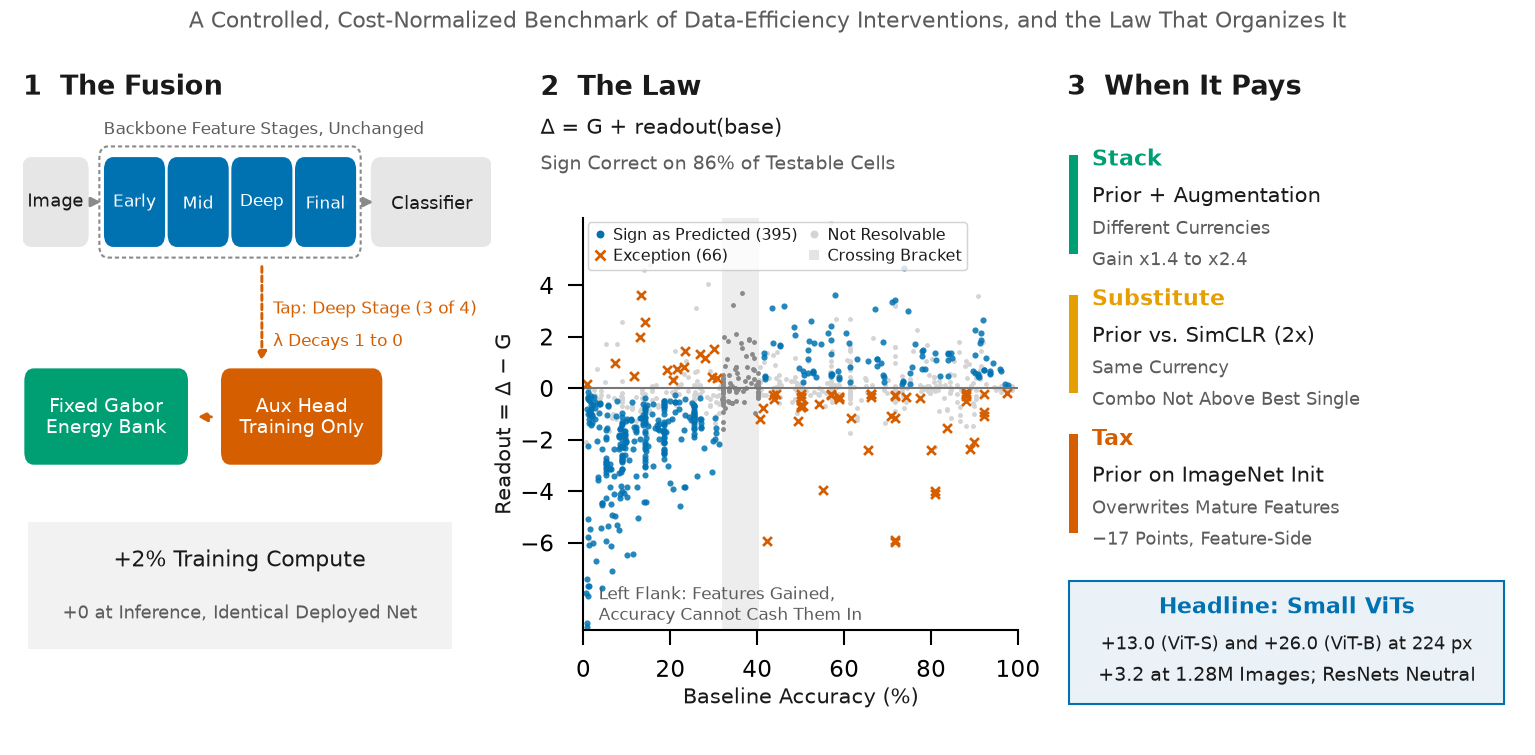
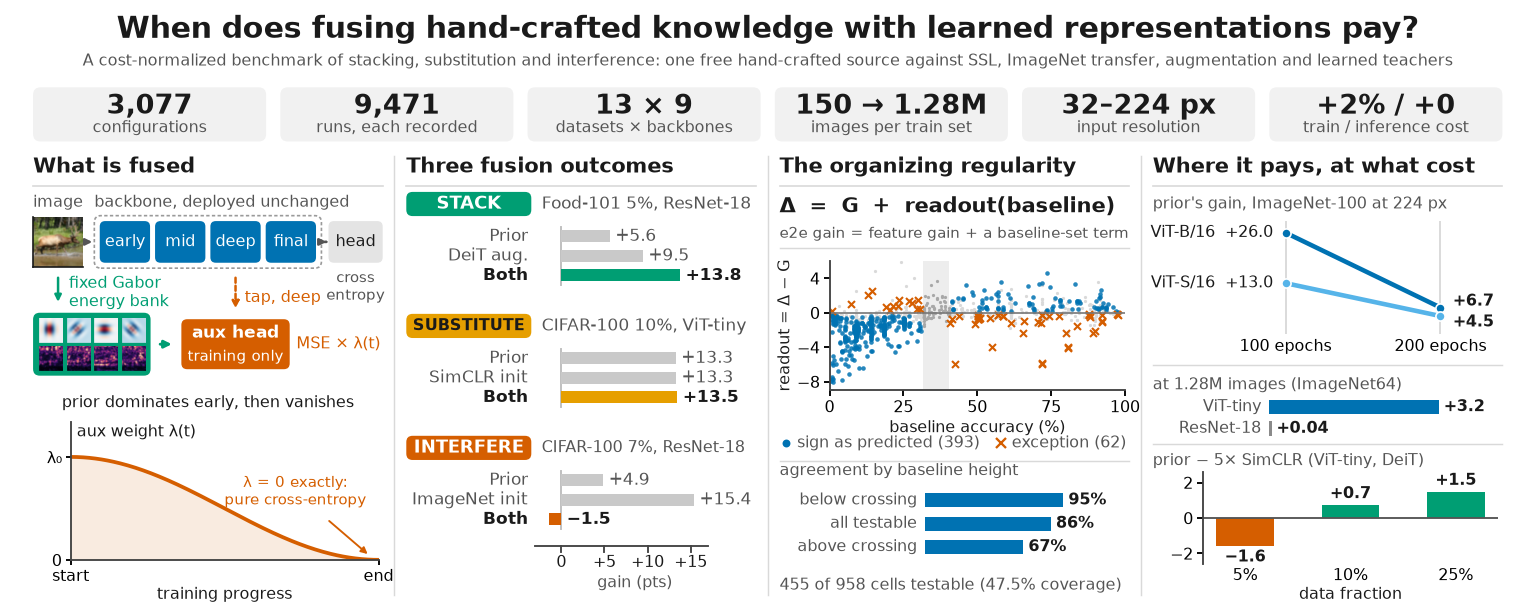
MomentAux page: withdraw the predictive-procedure claim, add the prospective test, masked SSL, the two-sensor result, the dashboard abstract and the 10-seed interference numbers

diff --git a/MomentAux/index.html b/MomentAux/index.html
@@ -4,7 +4,7 @@
     <meta charset="UTF-8">
     <meta name="viewport" content="width=device-width, initial-scale=1.0">
     <title>MomentAux: When does fusing hand-crafted knowledge with learned representations pay?</title>
-    <meta name="description" content="A controlled, cost-normalized benchmark of data-efficiency interventions: 3,054 classification configurations over 9,402 training runs, and a measurable rule for when fusing a hand-crafted prior with learned representations stacks, substitutes or interferes.">
+    <meta name="description" content="A controlled, cost-normalized benchmark of data-efficiency interventions: 3,077 classification configurations over 9,471 training runs, and the frozen-feature decomposition that organizes when fusing a hand-crafted prior with learned representations stacks, substitutes or interferes.">
     <link href="https://stackpath.bootstrapcdn.com/bootstrap/4.5.2/css/bootstrap.min.css" rel="stylesheet">
     <style>
         body { font-size: 16px; }
@@ -101,8 +101,7 @@
         <div class="col-12 text-center mb-2">
             <h1 class="mb-3">When does fusing hand-crafted knowledge with learned representations pay?</h1>
             <p class="text-muted" style="font-size:18px; margin-top:-6px;">
-                A controlled, cost-normalized benchmark and a measurable rule for
-                stacking, substitution and interference
+                A cost-normalized benchmark of stacking, substitution and interference
             </p>
 
             <ul class="list-inline author-list">
@@ -152,8 +151,8 @@
                 <p class="tldr-lead">A free, hand-crafted spectral prior is worth more to a
                 small transformer than two rounds of self-supervised pre-training. To a
                 convolutional network that already has enough data it is worth nothing at
-                all. Which of those two you are about to get is measurable
-                <em>before</em> you train the combined system.</p>
+                all. And at your own label budget, a linear evaluation of frozen features
+                predicts the end-to-end gain to within 0.17 points.</p>
                 <p class="tldr-sub">We ran the comparison the field keeps making informally:
                 every intervention under one frozen recipe, on byte-identical images, with its
                 compute cost declared. The gain then decomposes as
@@ -161,42 +160,56 @@
                 features, plus what the classifier can cash in. The sign of that second
                 term is correct on 86.4<!--auditRate-->% of the cells that
                 can test it. Sources supplying the <em>same</em> currency substitute; sources
-                supplying different ones stack; fusing a strong shaping
+                supplying different ones can stack; fusing a strong shaping
                 prior into an already-informed initialization interferes in proportion to what
-                that initialization was worth.</p>
+                that initialization was worth, at full auxiliary strength and not below it. A
+                rule built on that reading separates the three outcomes in hindsight but, run
+                prospectively on nine untrained pairs, called one, and we report that as a
+                result.</p>
             </div>
             <h2>Abstract</h2>
             <div class="abstract">
-                <p>Fusing prior knowledge with data-driven learning is attractive precisely
-                where data is scarce, yet no controlled account says when such fusion helps,
-                when it is redundant, and when it harms. We benchmark
-                one fixed, hand-crafted source of knowledge, a pinned bank of Gabor
-                targets injected only during training at ~2% compute overhead, against
-                the data-driven alternatives (SimCLR, SimSiam and DINO pre-training, ImageNet
-                transfer, heavy augmentation, learned teachers) under one frozen recipe with
-                fixed subsets: 13 datasets, 9 backbones, 150 to 1.28M images, 32 to 224&nbsp;px,
-                and 5.7M to 86M parameters (3,054<!--computeCells--> classification
-                configurations over 9,402<!--computeRuns--> runs, plus segmentation
-                and detection transplants).</p>
+                <p>Fusing prior knowledge with data-driven learning is attractive where data is
+                scarce, yet no controlled account says when it helps, is redundant, or harms.
+                We benchmark one fixed hand-crafted knowledge source, a pinned bank of Gabor
+                targets injected only during training at ~2% overhead, against data-driven
+                alternatives (SimCLR, SimSiam, DINO and masked-reconstruction pre-training,
+                ImageNet transfer, augmentation, learned teachers) under one frozen recipe
+                with fixed subsets: 13 datasets, 9 backbones, 150 to 1.28M images,
+                32&ndash;224&nbsp;px, 2.5M&ndash;86M parameters
+                (3,077<!--computeCells--> classification configurations over
+                9,471<!--computeRuns--> runs, plus segmentation and detection
+                transplants).</p>
 
-                <p>Every pairwise combination is measured too, and all follow one rule:
-                different-<em>currency</em> sources stack, same-currency sources substitute,
-                and fusing into an already-informed initialization interferes in proportion to
-                what it carries. Because each source's currency is measurable on frozen
-                features beforehand, the outcome is predictable in advance, which we state as
-                a procedure. Underlying it is an empirical decomposition,
-                &Delta;&nbsp;=&nbsp;<em>G</em>&nbsp;+&nbsp;readout(base), whose sign holds on
-                86.4<!--auditRate-->% of testable cells and which, registered in advance, called an unseen
-                backbone family's feature gain from baseline heights alone.</p>
+                <p>Every pairwise combination we measure at training time follows one rule
+                (decision-level fusion differs). Different-<em>currency</em> sources can
+                stack: the prior composes with DeiT augmentation on attention backbones and is
+                worth +26 points to ViT-B/16 at 224&nbsp;px, +6.7 at twice that budget.
+                Same-currency sources substitute: against effective self-supervised
+                pre-training the combination never usefully exceeds the better single source.
+                Fusing at full strength into an already-informed initialization interferes in
+                proportion to what it carries: ImageNet transfer, &minus;15 to &minus;17
+                points, removed by a weaker auxiliary weight. Each source's currency is
+                measurable on frozen features from that source alone, which separates the
+                three outcomes but does not predict them: as a procedure on untrained pairs it
+                calls one of nine. At a practitioner's own label budget the frozen-feature
+                gain predicts the end-to-end gain to within 0.17 points across 30 cells and
+                seven datasets; the underlying decomposition,
+                &Delta;&nbsp;=&nbsp;<em>G</em>&nbsp;+&nbsp;readout(base), holds in sign on
+                86.4<!--auditRate-->% of testable cells and called an unseen backbone family's
+                feature gain in advance.</p>
             </div>
 
             <figure>
                 <img src="imgs/overview.png" alt="Overview: the fusion, the law, and when it pays">
-                <figcaption><strong>Overview.</strong> The knowledge source is a fixed bank of
-                oriented-energy targets regressed from a mid-network tap, with the loss weight
-                decayed to exactly zero, so the deployed network is unchanged and inference
-                costs nothing extra. The centre panel is the decomposition that organizes the
-                grid; the right panel is the three-outcome taxonomy it predicts.</figcaption>
+                <figcaption><strong>The benchmark at a glance.</strong> Left: what is fused. A
+                real image feeds the backbone stages (deployed unchanged) and a fixed bank of
+                Gabor energy targets; the deep stage is tapped into an auxiliary head trained
+                only, with a weight &lambda; that decays to exactly zero, so inference costs
+                nothing extra. Then the three fusion outcomes on one measured cell each, the
+                decomposition &Delta;&nbsp;=&nbsp;<em>G</em>&nbsp;+&nbsp;readout(base) with its
+                audit, and where the prior pays at what comparator cost. Every number is read
+                from the released tables.</figcaption>
             </figure>
         </div>
     </div>
@@ -205,24 +218,28 @@
     <p class="lead-text">Combining two sources of knowledge produces one of three outcomes,
     and which one you get is not predictable from the sources' family names. The same
     prior is redundant with effective self-supervision and complementary with augmentation.
-    It <em>is</em> predictable from a cheap measurement on frozen features, taken before the
-    combination is built.</p>
+    A cheap measurement on frozen features, taken on each source alone, separates the three
+    after the fact; a rule built on it and run prospectively on nine untrained pairs called
+    one, so the taxonomy is something the measurement organizes, not something it predicts.</p>
 
     <div class="row outcome-row">
         <div class="col-md-4 d-flex">
         <div class="outcome stack">
         <h3>Stack: different currencies</h3>
         <p>The prior injects oriented-energy <em>structure</em>; heavy augmentation teaches
-        invariance to nuisance transforms. Different currencies, so they compound. On
+        invariance to nuisance transforms. Different currencies, so they can compound. On
         ViT-tiny at 10% of CIFAR-100, the prior adds +13.3 under the plain recipe and
-        <strong>+21.0</strong> on top of DeiT augmentation.</p>
+        <strong>+21.0</strong> on top of DeiT augmentation. Necessary, not sufficient: on two
+        convolutional populations outside the selection set the same pairing stacks at one
+        cell of six.</p>
         </div>
         </div>
         <div class="col-md-4 d-flex">
         <div class="outcome substitute">
         <h3>Substitute: same currency</h3>
-        <p>The prior and contrastive pre-training fill the same feature deficit, so combining
-        them adds nothing over the better single source. Measured on the feature side:
+        <p>The prior and contrastive pre-training fill the same feature deficit, so the
+        combination never usefully exceeds the better single source (at most about a point
+        above it, never near additivity). Measured on the feature side:
         whichever source has the larger frozen-feature gain is the one that wins end-to-end,
         at <strong>6 cells out of 6</strong> across two datasets.</p>
         </div>
@@ -232,8 +249,8 @@
         <h3>Interference: fusing into an already-informed initialization</h3>
         <p>Injecting the prior on top of ImageNet weights is destructive everywhere, and the
         damage is proportional to what the initialization was contributing and to how hard
-        the prior shapes: <strong>&minus;16 to &minus;18</strong> points on photographic data at full
-        auxiliary strength, vanishing below it, and statistically zero on
+        the prior shapes: <strong>&minus;15 to &minus;17</strong> points on photographic data at full
+        auxiliary strength (ten seeds per arm), vanishing below it, and statistically zero on
         histopathology where those weights were worth little to begin with. Probing confirms
         the loss is feature-side, not a classifier failure.</p>
         </div>
@@ -293,7 +310,11 @@
     </div>
     <p class="tbl-note">The deficit grows with model scale rather than shrinking, at both budgets:
     +6.71 against +4.52 at 200 epochs, where both models are trained. It persists
-    at 1.28M images where every ResNet is neutral (+0.04).</p>
+    at 1.28M images where every ResNet is neutral (+0.04). Masked reconstruction
+    (MAE-style, 2&times; compute), added on ViT-tiny, lands level with SimCLR and the prior
+    under the plain recipe (20.5 / 29.5 / 42.7 at 5 / 10 / 25%) and 6.8 to 7.6 points below
+    the prior under DeiT augmentation; its feature gains sit below the prior's, so it reads as
+    more of the same currency, not a new one.</p>
 
     <h3>Cost normalization, and what happens when the comparator gets more</h3>
     <div class="table-responsive">
@@ -349,38 +370,57 @@
     whole-image classifier, partly by a per-pixel one, and not at all by a
     coordinate regressor.</p>
 
-    <h2>A procedure for deciding whether to fuse</h2>
-    <p class="lead-text">The practical content of the taxonomy is that the outcome can be
-    estimated <em>before</em> the combined system is built, from measurements of each source
-    alone. The only cost beyond training each source once is two linear evaluations on frozen
-    features, which run in minutes on cells that took hours to train.</p>
-    <ol>
-        <li>Train the baseline, source <em>A</em> alone and source <em>B</em> alone; record
-            each arm's gain and its declared compute multiple.</li>
-        <li>Evaluate all three frozen representations under an identical linear protocol.
-            This gives <em>G<sub>A</sub></em> and <em>G<sub>B</sub></em>.</li>
-        <li>If either source's gain is about zero, it supplies nothing to overlap, and the
-            combination is not the question.</li>
-        <li>If the two feature gains are close <em>and</em> both arms improve the same cells,
-            expect <strong>substitution</strong>: take the cheaper source.</li>
-        <li>If they differ in kind, expect <strong>stacking</strong>.</li>
-        <li>If one source is a mature initialization, do not inject a shaping prior on top:
-            expect <strong>interference</strong> proportional to what that initialization supplies
-            and to the shaping strength, measurable in advance as its advantage over
-            training from scratch; a weak auxiliary weight removes the damage.</li>
-    </ol>
+    <h2>A procedure for deciding whether to fuse, and its prospective test</h2>
+    <p class="lead-text">If the taxonomy had practical content beyond description, it would be
+    that the outcome can be estimated <em>before</em> the combined system is built, from
+    measurements of each source alone. We stated that as a hypothesized procedure, registered
+    its calls on thirteen pairs whose combinations had never been trained, and only then
+    trained them. The procedure reads each source's frozen-feature gain, returns
+    <em>interfere</em> for a mature initialization, <em>n/a</em> when a source supplies nothing,
+    <em>substitute</em> when the two gains are close and both arms fix the same cells, and
+    <em>stack</em> otherwise.</p>
+    <div class="caveat">
+        <strong>It called one of nine.</strong> On the nine pairs whose outcome resolved, the
+        rule was right once, on validation and on test alike, so the predictive claim is
+        withdrawn and the paper reports the failure as a result. The diagnosis is specific:
+        the rule reads agreement in the <em>magnitude</em> of two feature gains as "same
+        currency", which conflates same-currency-in-different-amounts with different-in-kind,
+        and on held-out pairs that proxy orders the outcomes backwards. A strength-asymmetry
+        rule fitted on those pairs fails on the next family over (one of six), because DeiT
+        augmentation contributes almost no feature gain on its own and multiplies what it is
+        paired with: an amplifier, which no comparison of two single-arm gains can describe.
+        Three rules of the same shape fail out of sample, and that is the finding.
+    </div>
+    <p class="lead-text">What does predict: at a practitioner's <em>own</em> label budget, a
+    linear evaluation of frozen features predicts the end-to-end gain to within 0.17 points on
+    average across 30 cells, 8 datasets and baselines from 5 to 94%. Measure <em>G</em> at your
+    budget and you know &Delta; without training the cell. The full-label sign law is the
+    corollary of that measurement, and the paper names its mechanism: a label-rich probe sees
+    more than a label-starved classifier can cash in.</p>
+
+    <h2>Two sensors, and when a second one pays</h2>
+    <p class="lead-text">Two multi-source populations that differ in how far apart the sources
+    are. Splitting <em>one</em> instrument's bands (EuroSAT-MS: Sentinel-2 visible against
+    non-visible) is complementary at every fraction, +0.45 to +2.96 over the better single
+    source. Pairing <em>two satellites</em> (So2Sat LCZ42: Sentinel-1 radar with Sentinel-2
+    optical) never pays, landing between &minus;0.73 and &plusmn;0.00 against optical alone,
+    though radar reaches 35&ndash;53% on its own against a 5.9% chance rate. Had we run only
+    the multispectral population we would have reported that a second sensor stacks; the first
+    genuinely cross-modality test contradicts it. The two populations also differ in source
+    asymmetry, and the design cannot separate "too unequal" from "cross-modal"; the paper
+    reports a contrast, not a predictor.</p>
 
     <h2>The benchmark</h2>
     <div class="table-responsive">
     <table class="table table-sm">
         <tbody>
-        <tr><th style="width:34%">Scale</th><td>3,054<!--computeCells--> classification configurations over 9,402<!--computeRuns--> training runs, plus 216<!--denseCells--> segmentation and 36<!--detCells--> detection runs</td></tr>
+        <tr><th style="width:34%">Scale</th><td>3,077<!--computeCells--> classification configurations over 9,471<!--computeRuns--> training runs, plus 216<!--denseCells--> segmentation and 36<!--detCells--> detection runs</td></tr>
         <tr><th>Datasets</th><td>13, spanning natural images, satellite, texture, fine-grained,
             food and histopathology, plus multi-sensor Sentinel-1/2 pairs</td></tr>
         <tr><th>Backbones</th><td>9 across 5 families: ResNet-18/34/50, ConvNeXt, MobileNetV3,
             Swin, ViT-tiny/S/B</td></tr>
-        <tr><th>Data scale</th><td>150 to 1.28M images; 32 to 224&nbsp;px; 5.7M to 86M parameters</td></tr>
-        <tr><th>Comparators</th><td>SimCLR, SimSiam, DINO, ImageNet transfer, DeiT augmentation,
+        <tr><th>Data scale</th><td>150 to 1.28M images; 32 to 224&nbsp;px; 2.5M to 86M parameters</td></tr>
+        <tr><th>Comparators</th><td>SimCLR, SimSiam, DINO, masked reconstruction, ImageNet transfer, DeiT augmentation,
             learned teachers, each at a declared multiple of baseline training cost</td></tr>
         <tr><th>Protocol</th><td>One frozen recipe; fixed per-class subset indices shared by
             every run; numerically pinned filter banks; every table regenerated by command</td></tr>
@@ -395,7 +435,9 @@
         that played no part in selection. Comparator tuning parity is asymmetric by
         construction under cost normalization, so our self-supervised numbers are lower
         bounds, and we measured how far below by re-running them at four times their
-        budget. Two accuracy claims of ours did not survive that test and were withdrawn.
+        budget. Two accuracy claims of ours did not survive that test and were withdrawn, and so
+        was the claim that the fusion outcome is predictable in advance, after its prospective
+        test called one pair of nine.
     </div>
 
     <h2>Acknowledgments</h2>
@@ -428,8 +470,7 @@
     <h2>Citation</h2>
     <div class="citation">@article{almughrabi2026momentaux,
   title   = {When does fusing hand-crafted knowledge with learned representations pay?
-             A controlled, cost-normalized benchmark and a measurable rule for
-             stacking, substitution and interference},
+             A cost-normalized benchmark of stacking, substitution and interference},
   author  = {AlMughrabi, Ahmad and Clop, Albert and Busam, Benjamin
              and Marques, Ricardo and Radeva, Petia},
   journal = {Under review},
